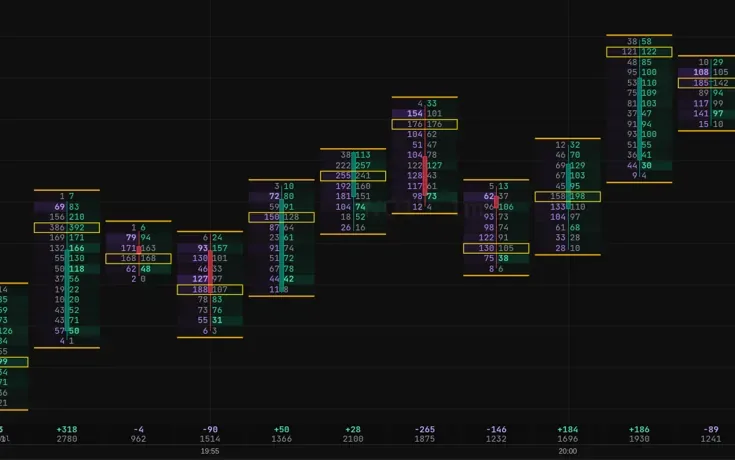
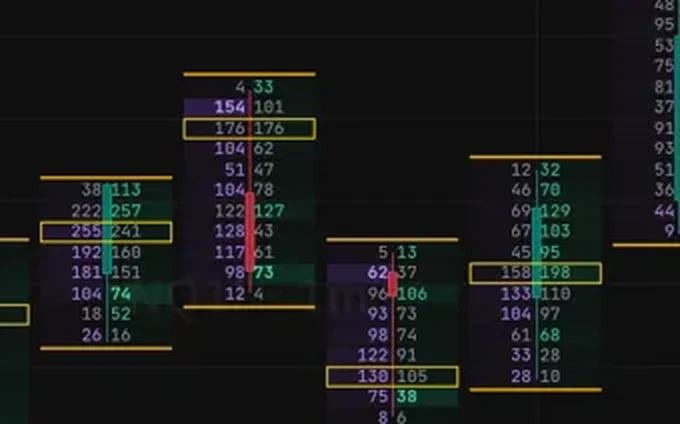
Demo C: hero chips and tiles show each tool big and labelled
Owner rule: a screenshot must actually show the tool. The GEX chip showed
candles with two faint lines; it is now the GEX Ladder (QQQ/SPY/SPX call
wall, put wall, flip, magnet and net GEX per strike) from the demo account.
Footprint, delta, absorption, sweeps and TPO are re-cropped tight on the
labelled tool so they read at 390; the order-flow tile uses a big-bubble
crop. Unused images removed.

diff --git a/demo-v1024-c.html b/demo-v1024-c.html
@@ -117,17 +117,17 @@
           <button type="button" class="bp-chip" role="tab" id="bp-c-delta" aria-controls="bp-screen" aria-selected="false" data-k="delta" data-tag="NQ 1m · delta profile" data-say="A delta profile on the price axis: buyers or sellers, row by row, at each price. One of 14 delta styles.">Delta</button>
           <button type="button" class="bp-chip" role="tab" id="bp-c-abs" aria-controls="bp-screen" aria-selected="false" data-k="abs" data-tag="NQ 1m · absorption" data-say="Marks prices where heavy selling or buying hit and price did not move, and keeps the level on the chart.">Absorption</button>
           <button type="button" class="bp-chip" role="tab" id="bp-c-sweep" aria-controls="bp-screen" aria-selected="false" data-k="sweep" data-tag="NQ 1m · stop runs" data-say="Flags a bar that pokes past a recent swing high or low on a volume spike and closes back inside.">Sweeps</button>
-          <button type="button" class="bp-chip" role="tab" id="bp-c-gex" aria-controls="bp-screen" aria-selected="false" data-k="gex" data-tag="GEX levels on the chart" data-say="Call wall, put wall and zero gamma drawn on the futures chart, with the GEX ladder. SPX GEX is free.">GEX</button>
+          <button type="button" class="bp-chip" role="tab" id="bp-c-gex" aria-controls="bp-screen" aria-selected="false" data-k="gex" data-tag="GEX Ladder · QQQ, SPY, SPX" data-say="Call wall, put wall, flip and the net GEX at every strike, in the GEX Ladder beside the chart. SPX GEX is free.">GEX</button>
           <button type="button" class="bp-chip" role="tab" id="bp-c-tpo" aria-controls="bp-screen" aria-selected="false" data-k="tpo" data-tag="Market profile (TPO)" data-say="Time at price for each session in letters or blocks, with the initial balance, POC and value area.">TPO</button>
       </div>
       <div class="bp-screen" id="bp-screen" role="tabpanel" aria-live="polite">
         <span class="bp-tag" id="bp-tag">NQ footprint</span>
-          <img data-k="fp" class="on" src="assets/images/demo-v1024/c-footprint.webp?v=645" width="735" height="460" alt="Footprint on the TradeZoro chart: every candle split into prices, with the volume bought and sold at each one." decoding="async" fetchpriority="high">
-          <img data-k="delta" src="assets/images/demo-v1024/c-delta.webp?v=645" width="1200" height="616" alt="Delta on the TradeZoro chart: a delta profile on the price axis: buyers or sellers, row by row, at each price. One of 14 delta styles." decoding="async" loading="lazy">
-          <img data-k="abs" src="assets/images/demo-v1024/c-absorption.webp?v=645" width="1200" height="616" alt="Absorption on the TradeZoro chart: marks prices where heavy selling or buying hit and price did not move, and keeps the level on the chart." decoding="async" loading="lazy">
-          <img data-k="sweep" src="assets/images/demo-v1024/c-sweeps.webp?v=645" width="1200" height="581" alt="Sweeps on the TradeZoro chart: flags a bar that pokes past a recent swing high or low on a volume spike and closes back inside." decoding="async" loading="lazy">
-          <img data-k="gex" src="assets/images/demo-v1024/c-gex.webp?v=645" width="1200" height="509" alt="GEX on the TradeZoro chart: call wall, put wall and zero gamma drawn on the futures chart, with the GEX ladder. SPX GEX is free." decoding="async" loading="lazy">
-          <img data-k="tpo" src="assets/images/demo-v1024/c-tpo.webp?v=645" width="735" height="460" alt="TPO on the TradeZoro chart: time at price for each session in letters or blocks, with the initial balance, POC and value area." decoding="async" loading="lazy">
+          <img data-k="fp" class="on" src="assets/images/demo-v1024/c-footprint.webp?v=645" width="680" height="424" alt="Footprint on the TradeZoro chart: every candle split into prices, with the volume bought and sold at each one." decoding="async" fetchpriority="high">
+          <img data-k="delta" src="assets/images/demo-v1024/c-delta.webp?v=645" width="1000" height="625" alt="Delta on the TradeZoro chart: a delta profile on the price axis: buyers or sellers, row by row, at each price. One of 14 delta styles." decoding="async" loading="lazy">
+          <img data-k="abs" src="assets/images/demo-v1024/c-absorption.webp?v=645" width="960" height="600" alt="Absorption on the TradeZoro chart: marks prices where heavy selling or buying hit and price did not move, and keeps the level on the chart." decoding="async" loading="lazy">
+          <img data-k="sweep" src="assets/images/demo-v1024/c-sweeps.webp?v=645" width="690" height="432" alt="Sweeps on the TradeZoro chart: flags a bar that pokes past a recent swing high or low on a volume spike and closes back inside." decoding="async" loading="lazy">
+          <img data-k="gex" src="assets/images/demo-v1024/c-gex.webp?v=645" width="687" height="429" alt="GEX on the TradeZoro chart: call wall, put wall, flip and the net GEX at every strike, in the GEX Ladder beside the chart. SPX GEX is free." decoding="async" loading="lazy">
+          <img data-k="tpo" src="assets/images/demo-v1024/c-tpo.webp?v=645" width="645" height="404" alt="TPO on the TradeZoro chart: time at price for each session in letters or blocks, with the initial balance, POC and value area." decoding="async" loading="lazy">
         <i class="bp-prog" id="bp-prog" aria-hidden="true"></i>
       </div>
       <div class="bp-say"><b aria-hidden="true">›</b><p id="bp-say-text">Every candle split into prices, with the volume bought and sold at each one.</p></div>
@@ -153,7 +153,7 @@
       <span class="k">Order flow</span>
       <h3>Big Trades, CVD and imbalance zones</h3>
       <p>A bubble wherever one large order traded, CVD with divergence lines, and imbalance zones that stay until price fills them.</p>
-      <div class="bp-shot"><img src="assets/images/demo-v1024/c-bigtrades.webp?v=645" width="1200" height="616" alt="" loading="lazy" decoding="async"><div class="bp-more">Also: 14 delta styles, Effort vs Result and naked POCs. <a href="features/orderflow">All order flow tools ›</a></div></div>
+      <div class="bp-shot"><img src="assets/images/demo-v1024/c-bigtrades-hero.webp?v=645" width="900" height="562" alt="" loading="lazy" decoding="async"><div class="bp-more">Also: 14 delta styles, Effort vs Result and naked POCs. <a href="features/orderflow">All order flow tools ›</a></div></div>
     </div>
     <div class="bp-tile bp-phone bp-w2 bp-h2 bp-rise" data-tap tabindex="0" role="button" aria-expanded="false"><span class="bp-plus" aria-hidden="true">+</span>
       <span class="k">On your phone</span>
